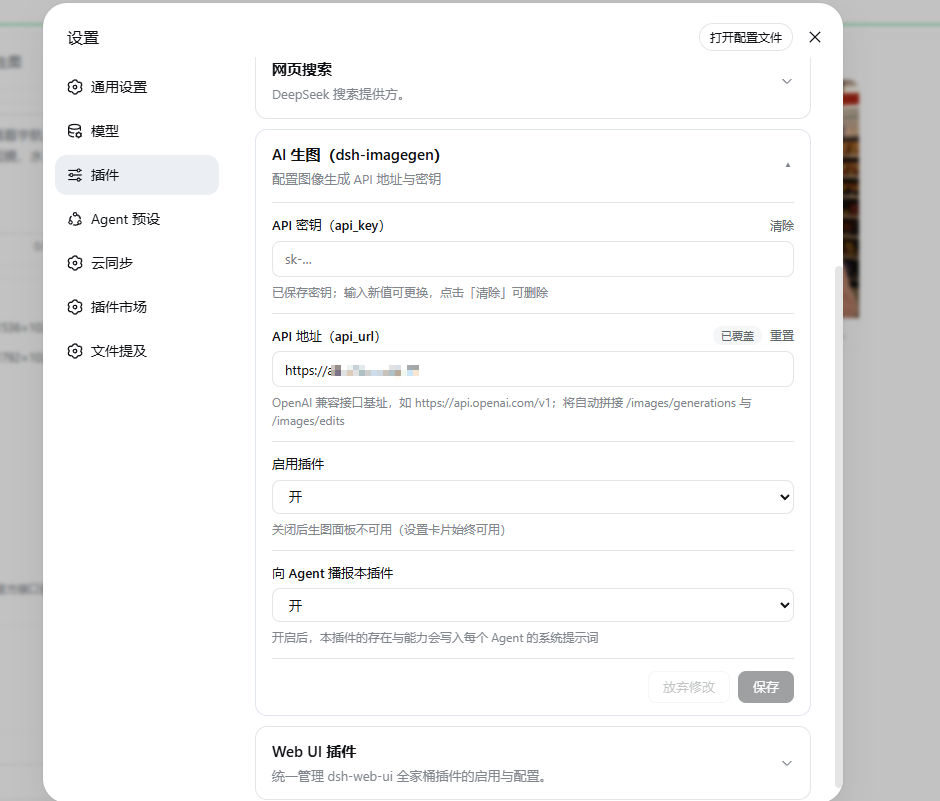
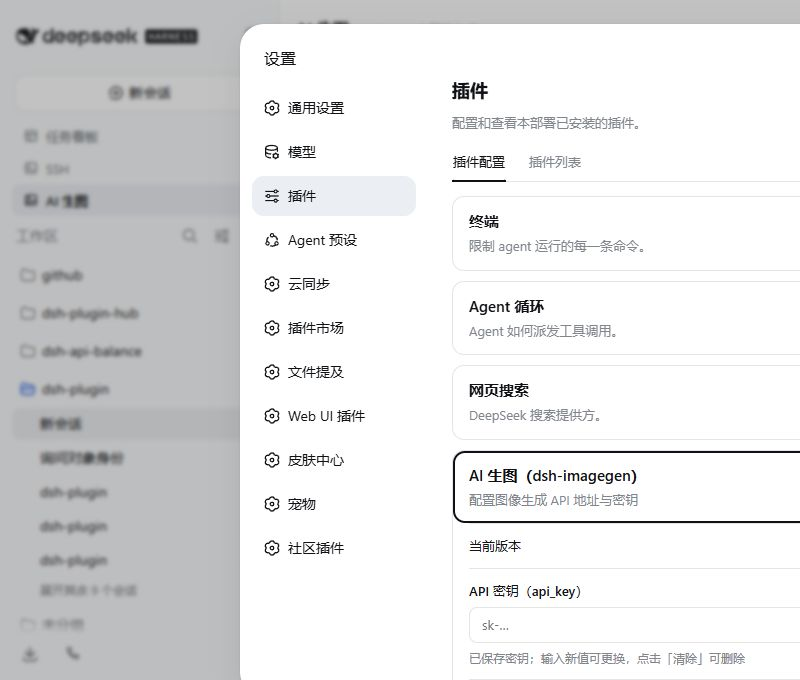
docs: refresh README screenshots

diff --git a/README.md b/README.md
@@ -14,13 +14,13 @@ DeepSeek Harness (DSH) Web GUI 的 AI 生图插件。它通过宿主进程安全
 
 三栏工作台将参数、生成结果和历史记录放在同一视图中；生成的图片可预览、下载，并从历史记录恢复参数。
 
-![AI 生图工作台](docs/images/image-generation-studio.png)
+![AI 生图工作台（v1.0.3 连接状态）](docs/images/image-generation-studio.png)
 
 ### 独立配置卡片
 
 在 DSH 的“设置 -> 插件 -> 可配置”中填写 API 地址和密钥。密钥只保存在宿主侧设置文件，浏览器端不会获取明文。
 
-![插件配置卡片](docs/images/plugin-settings.png)
+![插件配置卡片（显示当前版本）](docs/images/plugin-settings.png)
 
 ## 功能
 
